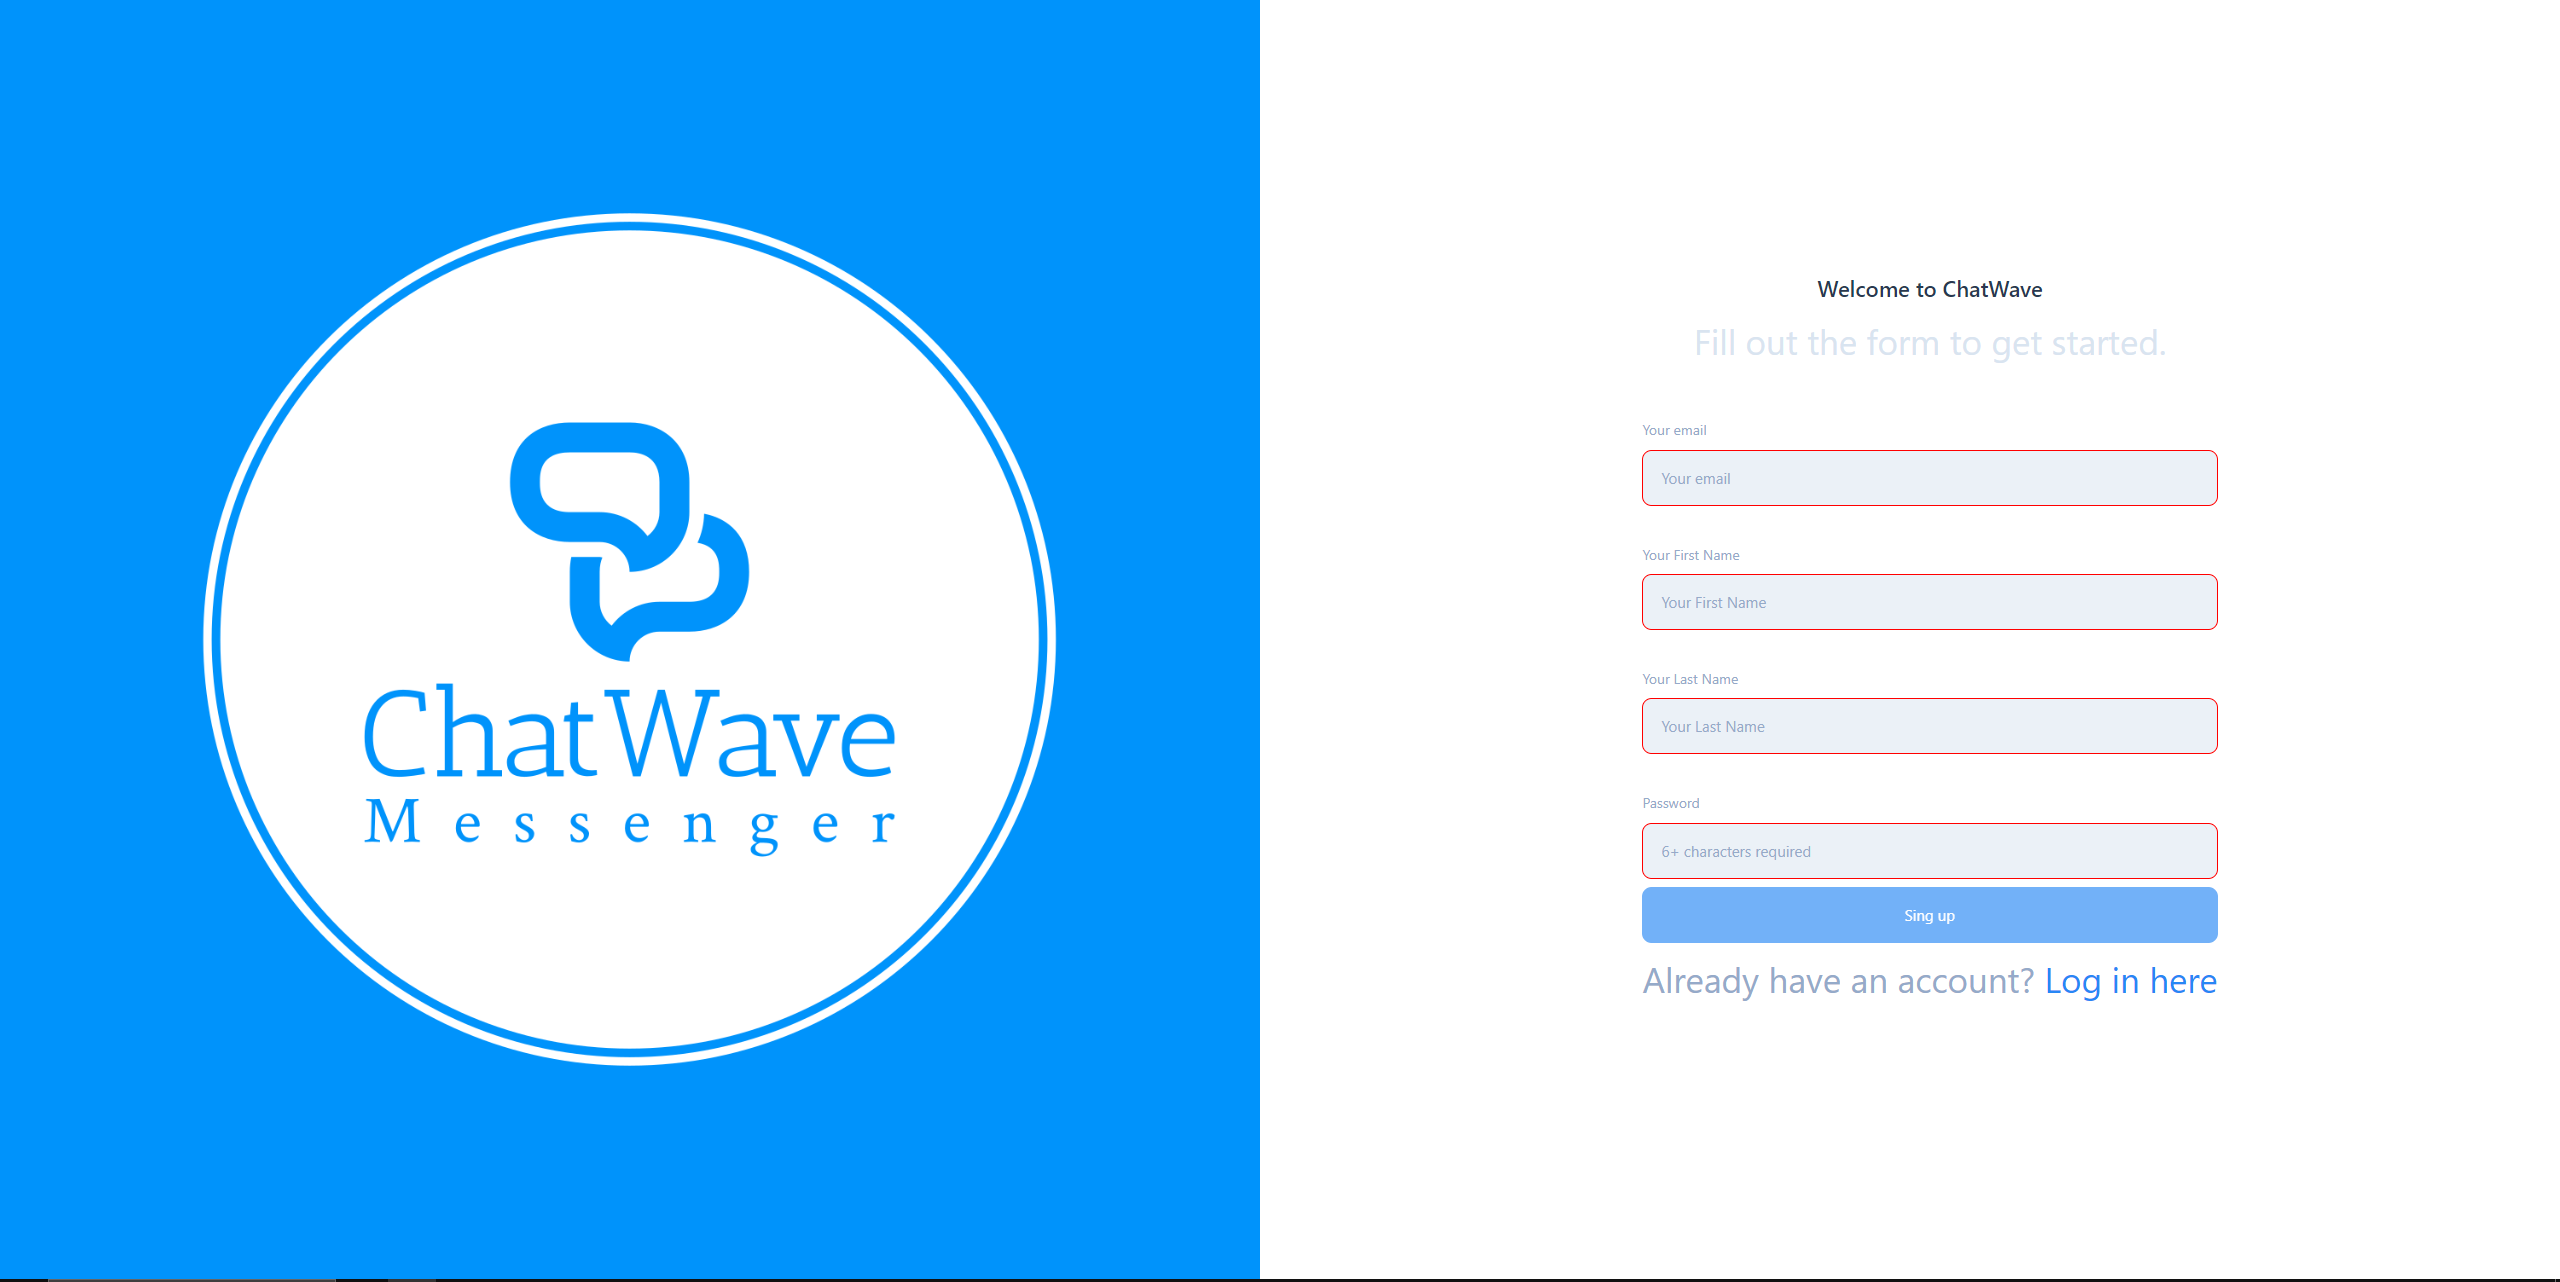
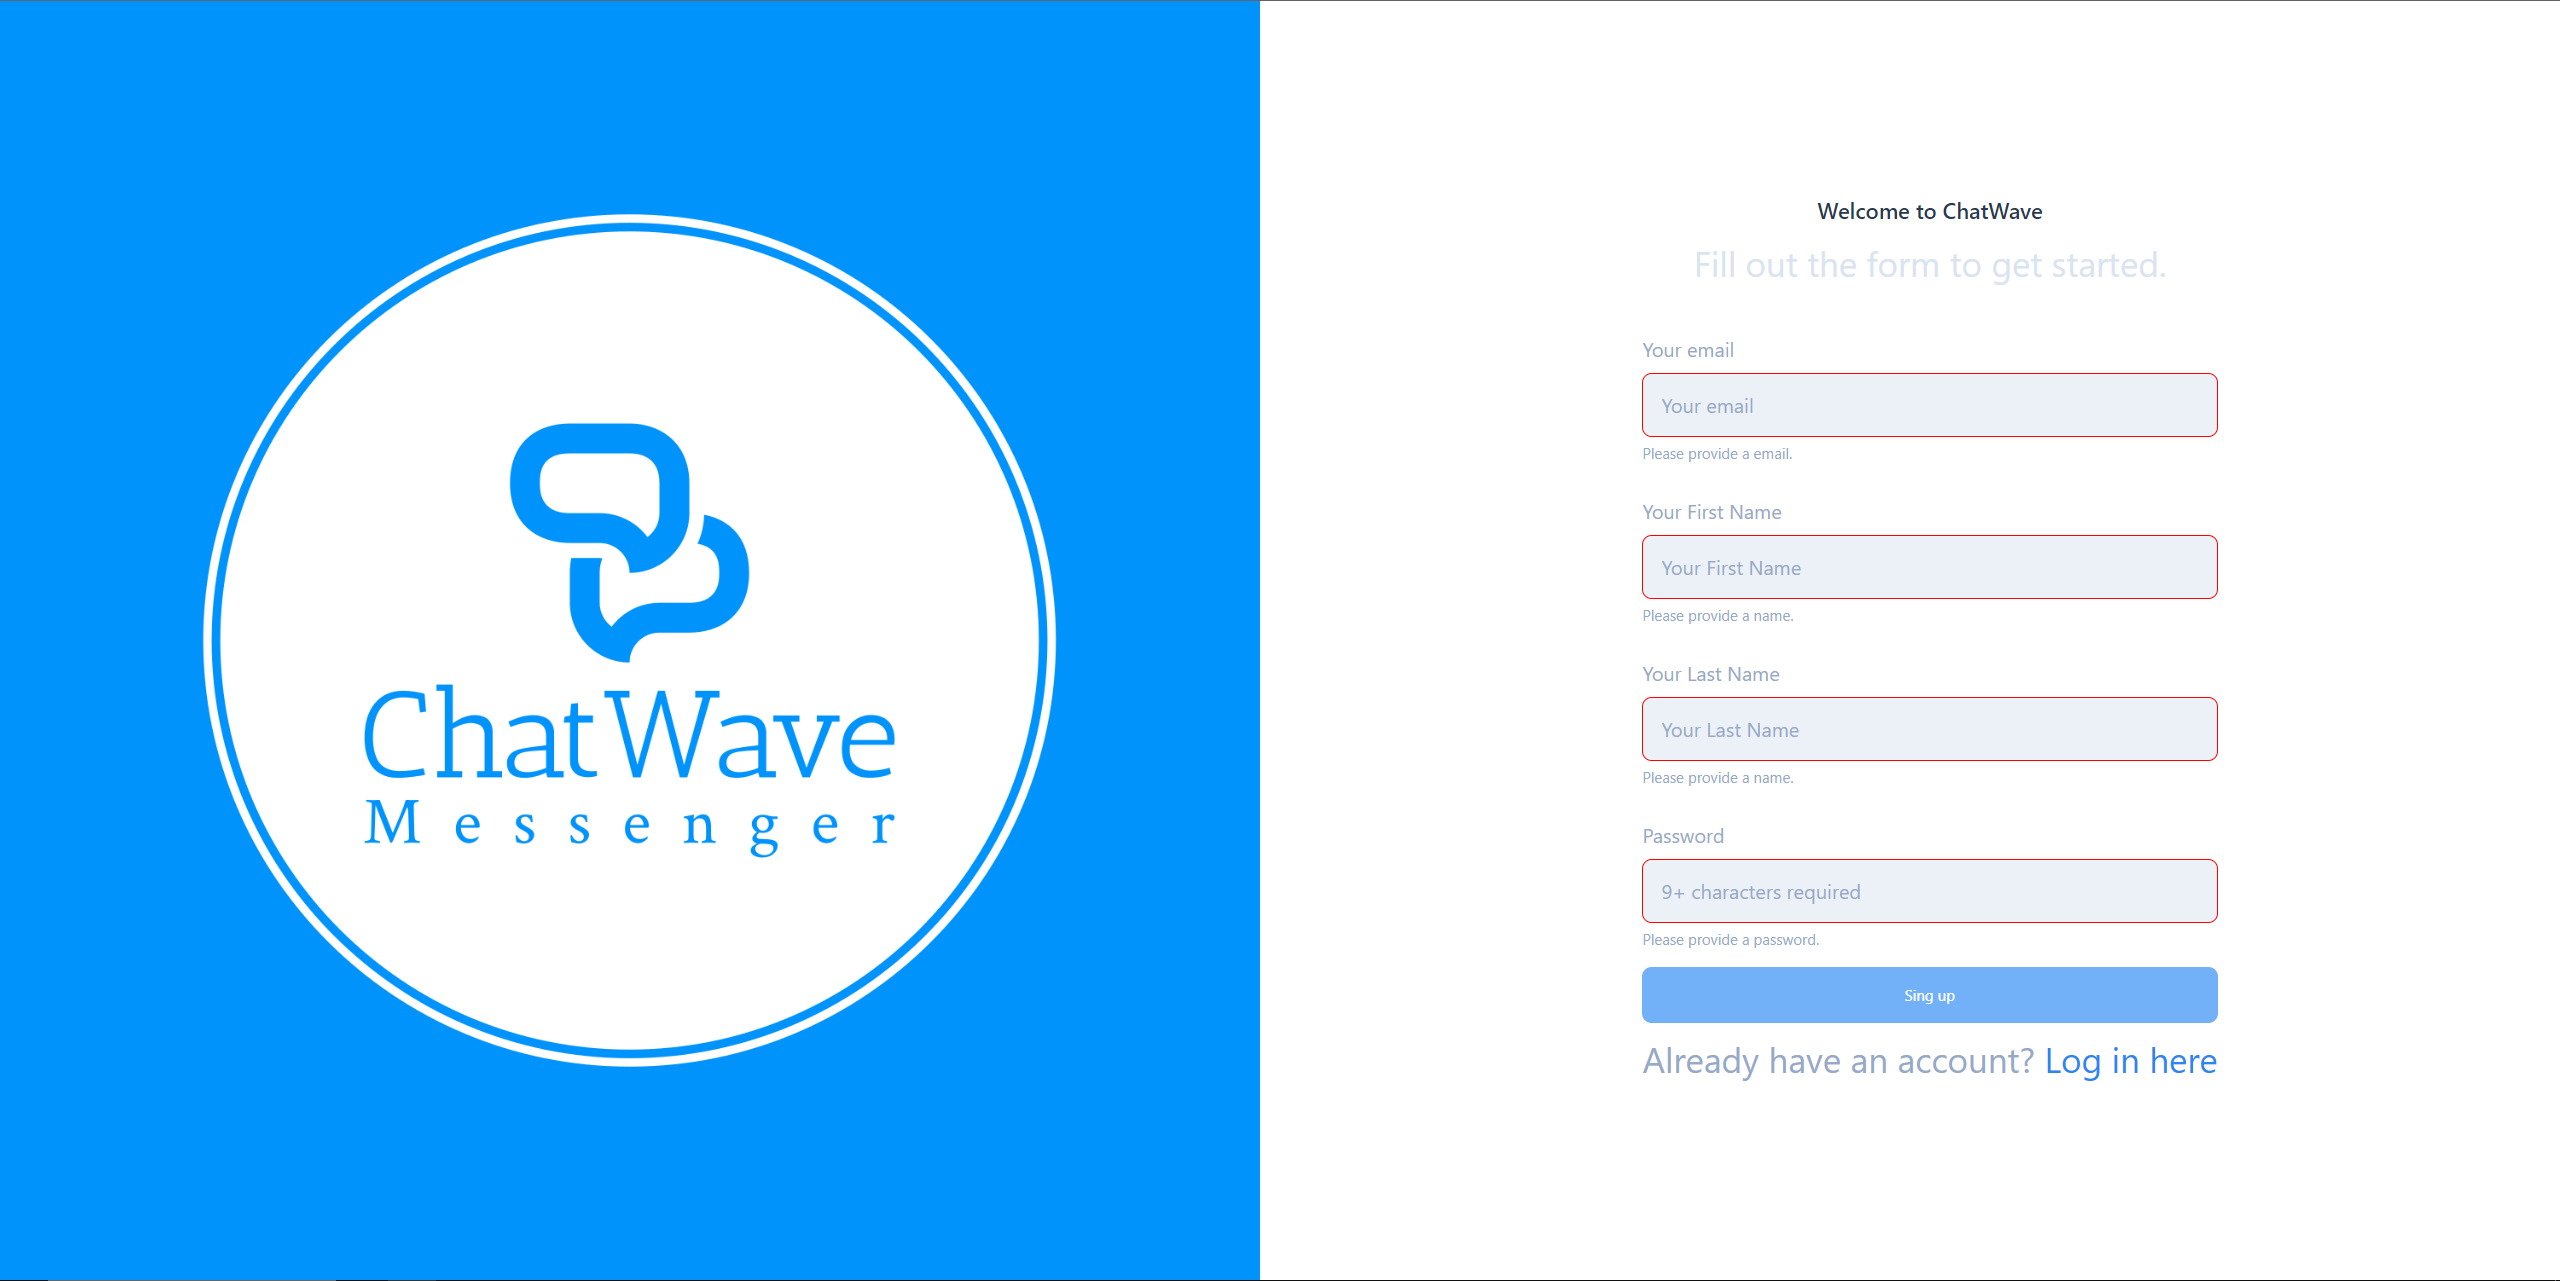
readme photo changes

diff --git a/src/app/components/settings-modal/settings-modal.component.html b/src/app/components/settings-modal/settings-modal.component.html
@@ -64,6 +64,104 @@
         </div>
         <!-- Profile -->
 
+        <!-- Account -->
+        <div class="mt-8">
+          <div class="d-flex align-items-center mb-4 px-6">
+            <small class="text-muted me-auto">Account</small>
+          </div>
+
+          <div class="card border-0">
+            <div class="card-body py-2">
+              <!-- Accordion -->
+              <div class="accordion accordion-flush" id="accordion-profile">
+                <div class="accordion-item">
+                  <div class="accordion-header" id="accordion-profile-1">
+                    <a
+                      href="#"
+                      class="accordion-button text-reset"
+                      data-bs-toggle="collapse"
+                      data-bs-target="#accordion-profile-body-1"
+                      aria-expanded="true"
+                      aria-controls="accordion-profile-body-1"
+                    >
+                      <div>
+                        <h5>Profile settings</h5>
+                        <p>Change your profile settings</p>
+                      </div>
+                    </a>
+                  </div>
+
+                  <div
+                    id="accordion-profile-body-1"
+                    class="accordion-collapse collapse show"
+                    aria-labelledby="accordion-profile-1"
+                    data-parent="#accordion-profile"
+                  >
+                    <div class="accordion-body">
+                      <div class="form-floating mb-6">
+                        <input
+                          type="text"
+                          class="form-control"
+                          id="profile-name"
+                          placeholder="Name"
+                        />
+                        <label for="profile-name">Name</label>
+                      </div>
+
+                      <div class="form-floating mb-6">
+                        <input
+                          type="email"
+                          class="form-control"
+                          id="profile-email"
+                          placeholder="Email address"
+                        />
+                        <label for="profile-email">Email</label>
+                      </div>
+
+                      <div class="form-floating mb-6">
+                        <input
+                          type="text"
+                          class="form-control"
+                          id="profile-phone"
+                          placeholder="Phone"
+                        />
+                        <label for="profile-phone">Phone</label>
+                      </div>
+
+                      <div class="form-floating mb-6">
+                        <textarea
+                          class="form-control"
+                          placeholder="Bio"
+                          id="profile-bio"
+                          data-autosize="true"
+                          style="
+                            min-height: 120px;
+                            overflow: hidden;
+                            overflow-wrap: break-word;
+                            resize: none;
+                            height: 120px;
+                          "
+                        ></textarea>
+                        <label for="profile-bio">Bio</label>
+                      </div>
+
+                      <button
+                        type="button"
+                        class="btn btn-block btn-lg btn-primary w-100"
+                      >
+                        Save
+                      </button>
+                    </div>
+                  </div>
+                </div>
+
+                <!-- Switch -->
+              </div>
+            </div>
+          </div>
+        </div>
+        <!-- Account -->
+
         <!-- Security -->
         <div class="mt-8">
           <div class="d-flex align-items-center my-4 px-6">

diff --git a/src/app/components/login/login.component.ts b/src/app/components/login/login.component.ts
@@ -1,4 +1,4 @@
-import { Component, OnInit } from '@angular/core';
+import { Component, EventEmitter, OnInit, Output } from '@angular/core';
 import { FormControl, FormGroup, Validators } from '@angular/forms';
 import { Router } from '@angular/router';
 import { Profile } from 'src/app/models/interfaces/profile.interface';
@@ -39,7 +39,6 @@ export class LoginComponent implements OnInit {
           user.email === form.value.email &&
           user.password === form.value.password
         ) {
-          localStorage.setItem('user', JSON.stringify(user.id));
           this.router.navigateByUrl('/overview');
         } else {
           alert('Please enter a valid account');

diff --git a/src/app/components/login/login.component.html b/src/app/components/login/login.component.html
@@ -40,8 +40,8 @@
               class="form-control form-control-lg password"
               formControlName="password"
               id="signupModalFormLoginPassword"
-              placeholder="6+ characters required"
-              aria-label="6+ characters required"
+              placeholder="9+ characters required"
+              aria-label="9+ characters required"
               required=""
             />
             <div

diff --git a/src/app/components/register/register.component.html b/src/app/components/register/register.component.html
@@ -85,8 +85,8 @@
             class="js-toggle-password form-control form-control-lg"
             formControlName="password"
             id="signupModalFormSignupPassword"
-            placeholder="6+ characters required"
-            aria-label="6+ characters required"
+            placeholder="9+ characters required"
+            aria-label="9+ characters required"
           />
           <div
             *ngIf="

diff --git a/src/app/components/settings-modal/settings-modal.component.ts b/src/app/components/settings-modal/settings-modal.component.ts
@@ -40,13 +40,5 @@ export class SettingsModalComponent implements OnInit {
         Validators.minLength(9),
       ]),
     });
-
-    const userId = localStorage.getItem('user');
-
-    this.accountsService.getAccounts(userId!).subscribe((user) => {
-      this.firstName = user[0].firstName;
-      this.lastName = user[0].lastName;
-      this.userEmail = user[0].email;
-    });
   }
 }

diff --git a/src/app/services/accounts.service.ts b/src/app/services/accounts.service.ts
@@ -21,6 +21,6 @@ export class AccountsService {
   }
 
   getAccounts(user: string): Observable<Profile[]> {
-    return this.http.get<Profile[]>(this.apiUrl + '?id=' + user);
+    return this.http.get<Profile[]>(this.apiUrl + '/' + user);
   }
 }
